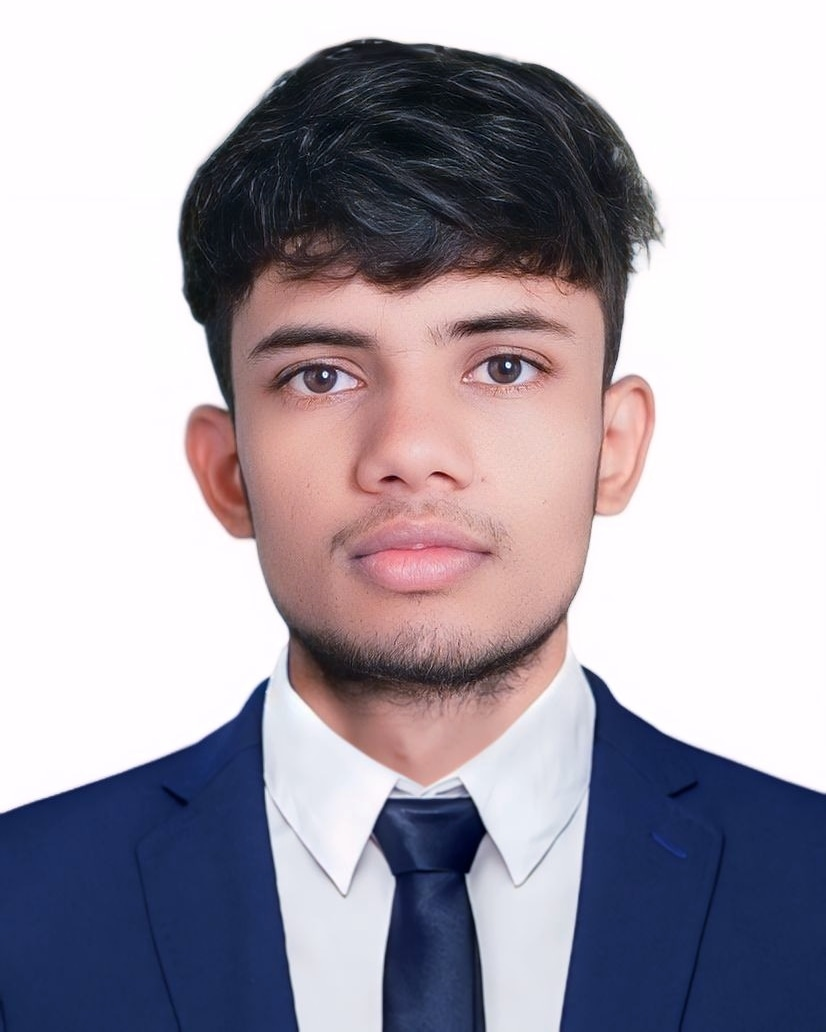
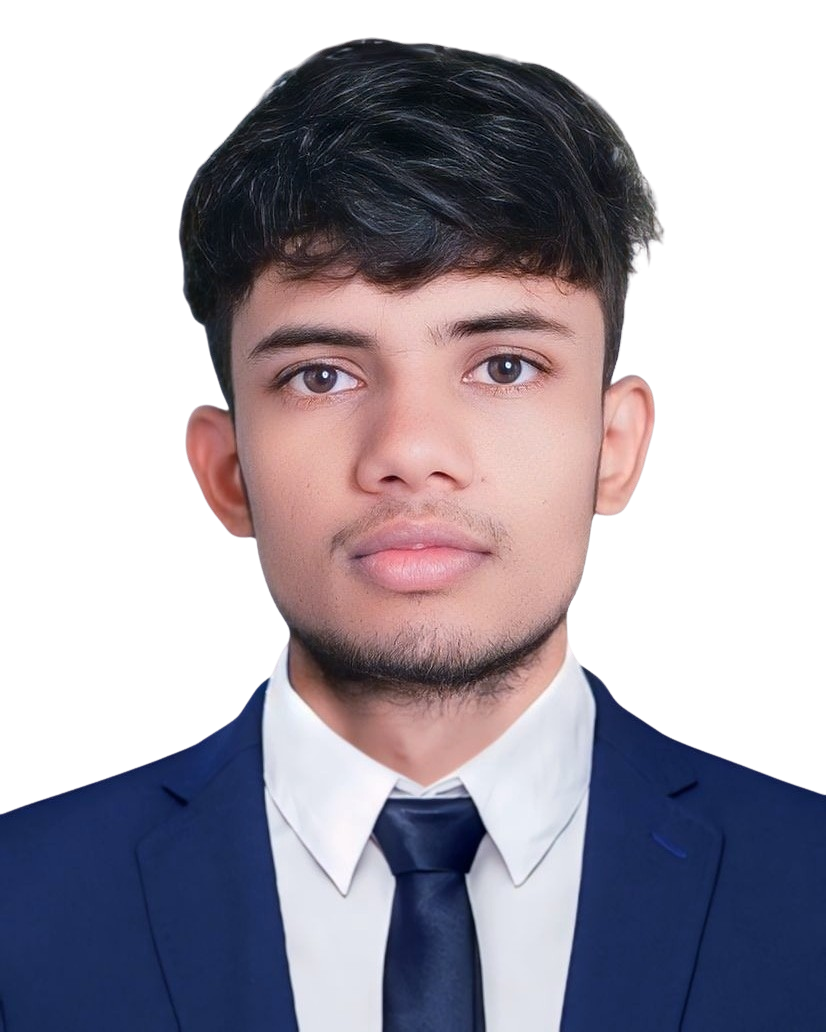
push

diff --git a/assets/css/style.css b/assets/css/style.css
@@ -219,10 +219,6 @@ img {
 .home__blob-img {
   width: 400px;
   border-radius: 0.5rem;
-  justify-self: center;
-  mix-blend-mode:multiply;
-  /* mix-blend-mode: luminosity; */
-  /* mix-blend-mode: overlay; */
 }
 
 /*BUTTONS*/
